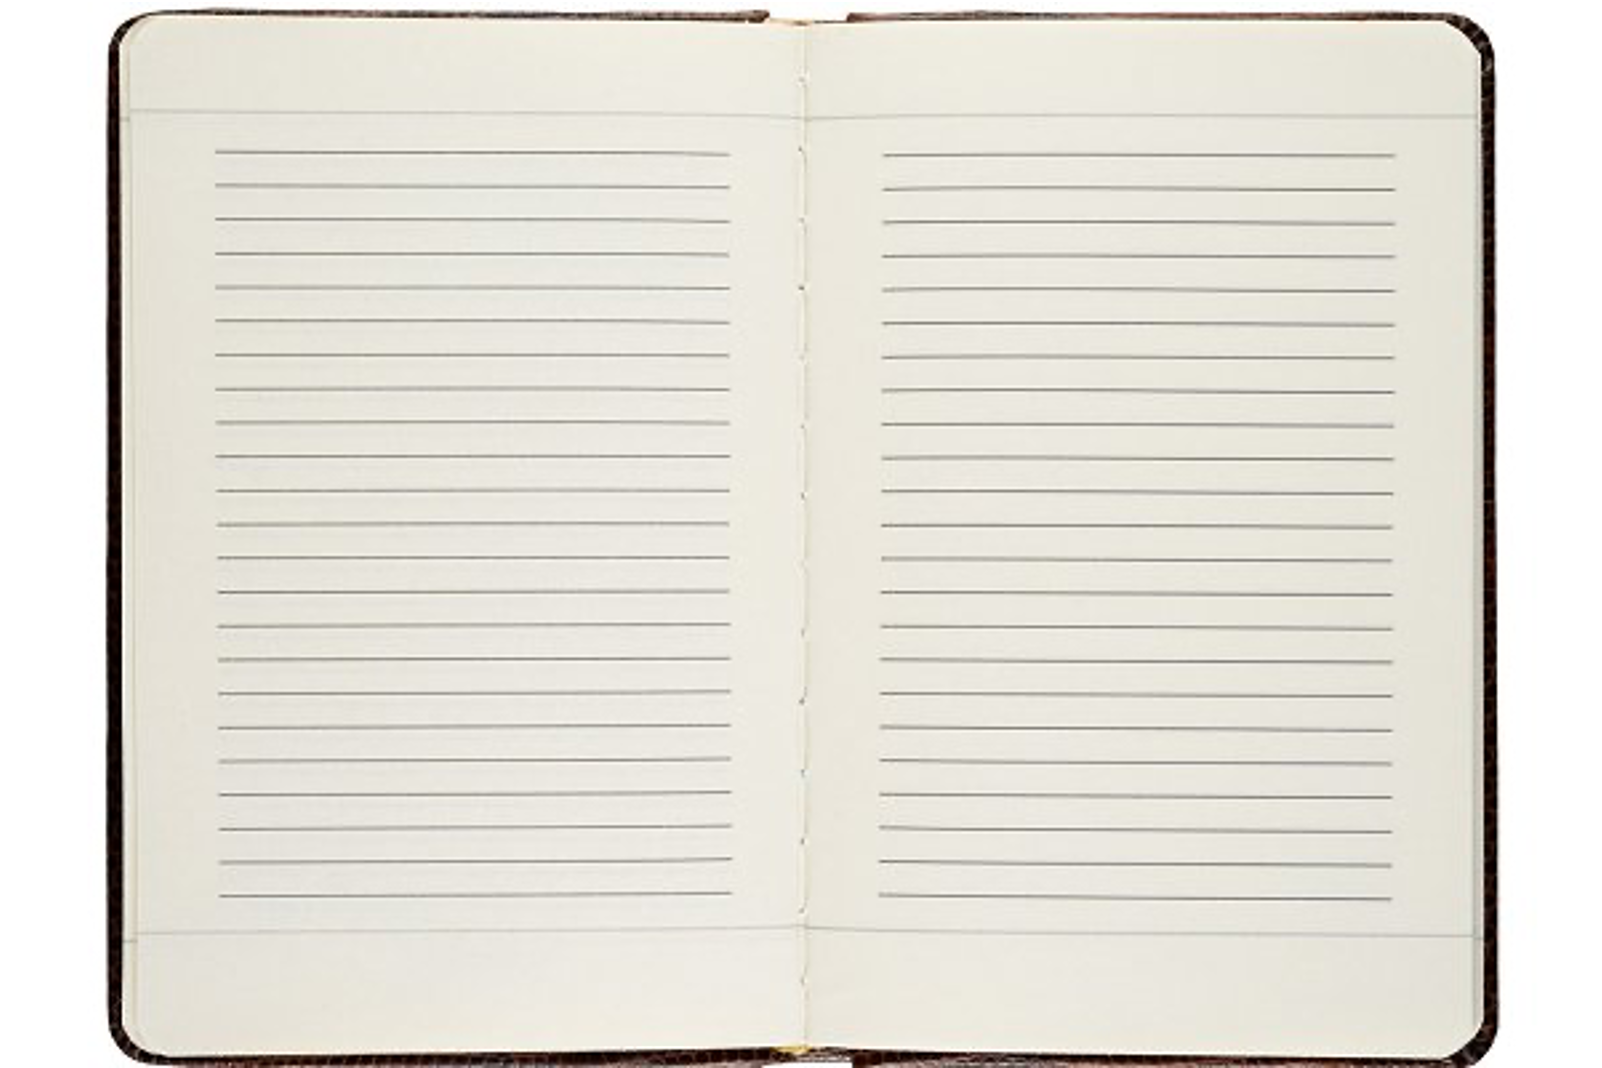
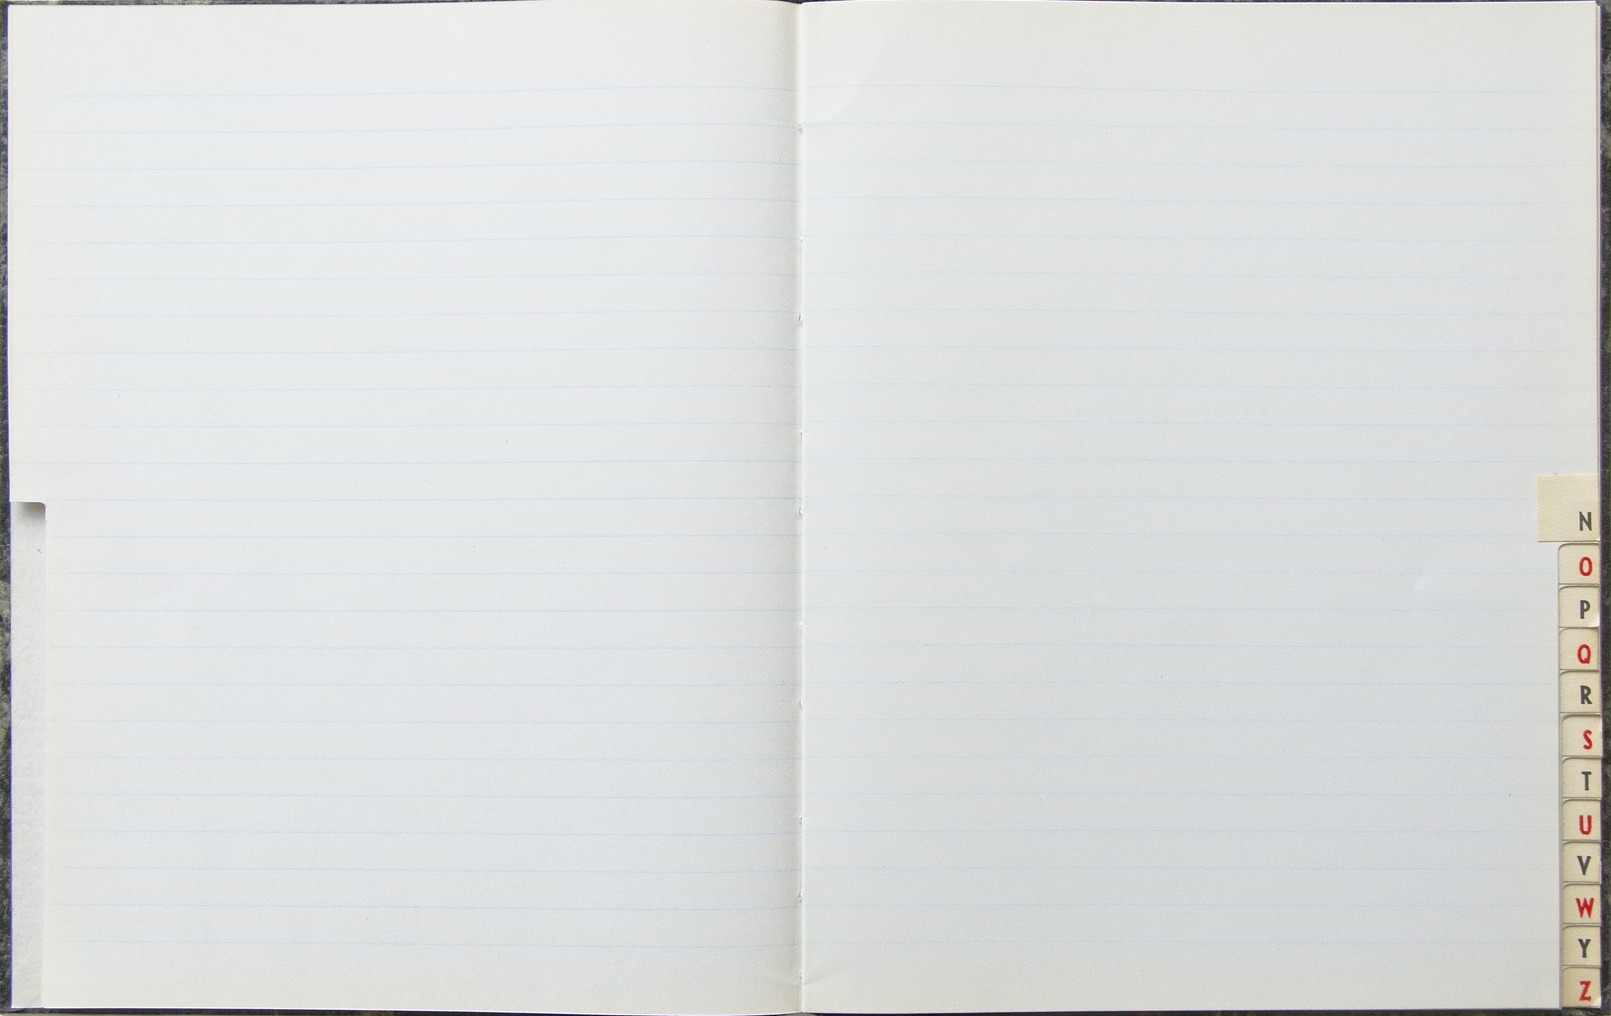
Changed the diary background image

Changed region(s): [[0.0, 0.0, 1.0, 1.0], [0.4994, 0.0915, 0.5618, 0.122]]

diff --git a/css/style.css b/css/style.css
@@ -43,14 +43,14 @@ nav .active {
 /* The book, and everything inside it */
 #book-container {
   position: static; /* Needed so that the footer can appear below this section */
-  height: 910px;
+  height: 56.76vw;
 }
 
 #book {
   display: block;
   position: absolute;
-  width: 90%;
-  height: 910px;
+  width: 90vw;
+  height: 56.76vw;
   left: 5%;
 }
 
@@ -65,14 +65,23 @@ nav .active {
 }
 
 #pages {
-    display: flex;
-    height: 100%;
+  display: flex;
+  height: 100%;
 }
 
 #pages > #leftpage,#rightpage {
-    flex: 50%;
-    border: 3px solid black;
-    padding: 20px;
+  flex: 50%;
+  border: 1px solid #aaaaaa; /*  FOR DEBUGGING */
+  padding-top: 3%;
+  padding-bottom: 3%;
+}
+
+#leftpage {
+  padding-left: 4%;
+}
+
+#rightpage {
+  padding-right: 4%;
 }
 
 /* Navigation buttons */
@@ -83,14 +92,14 @@ nav .active {
 
 #button-prev {
   position: absolute;
-  left: 20px;
-  bottom: 20px;
+  left: 4%;
+  bottom: 4%;
 }
 
 #button-next {
   position: absolute;
-  right: 20px;
-  bottom: 20px;
+  right: 4%;
+  bottom: 4%;
 }
 
 /* Footer */
